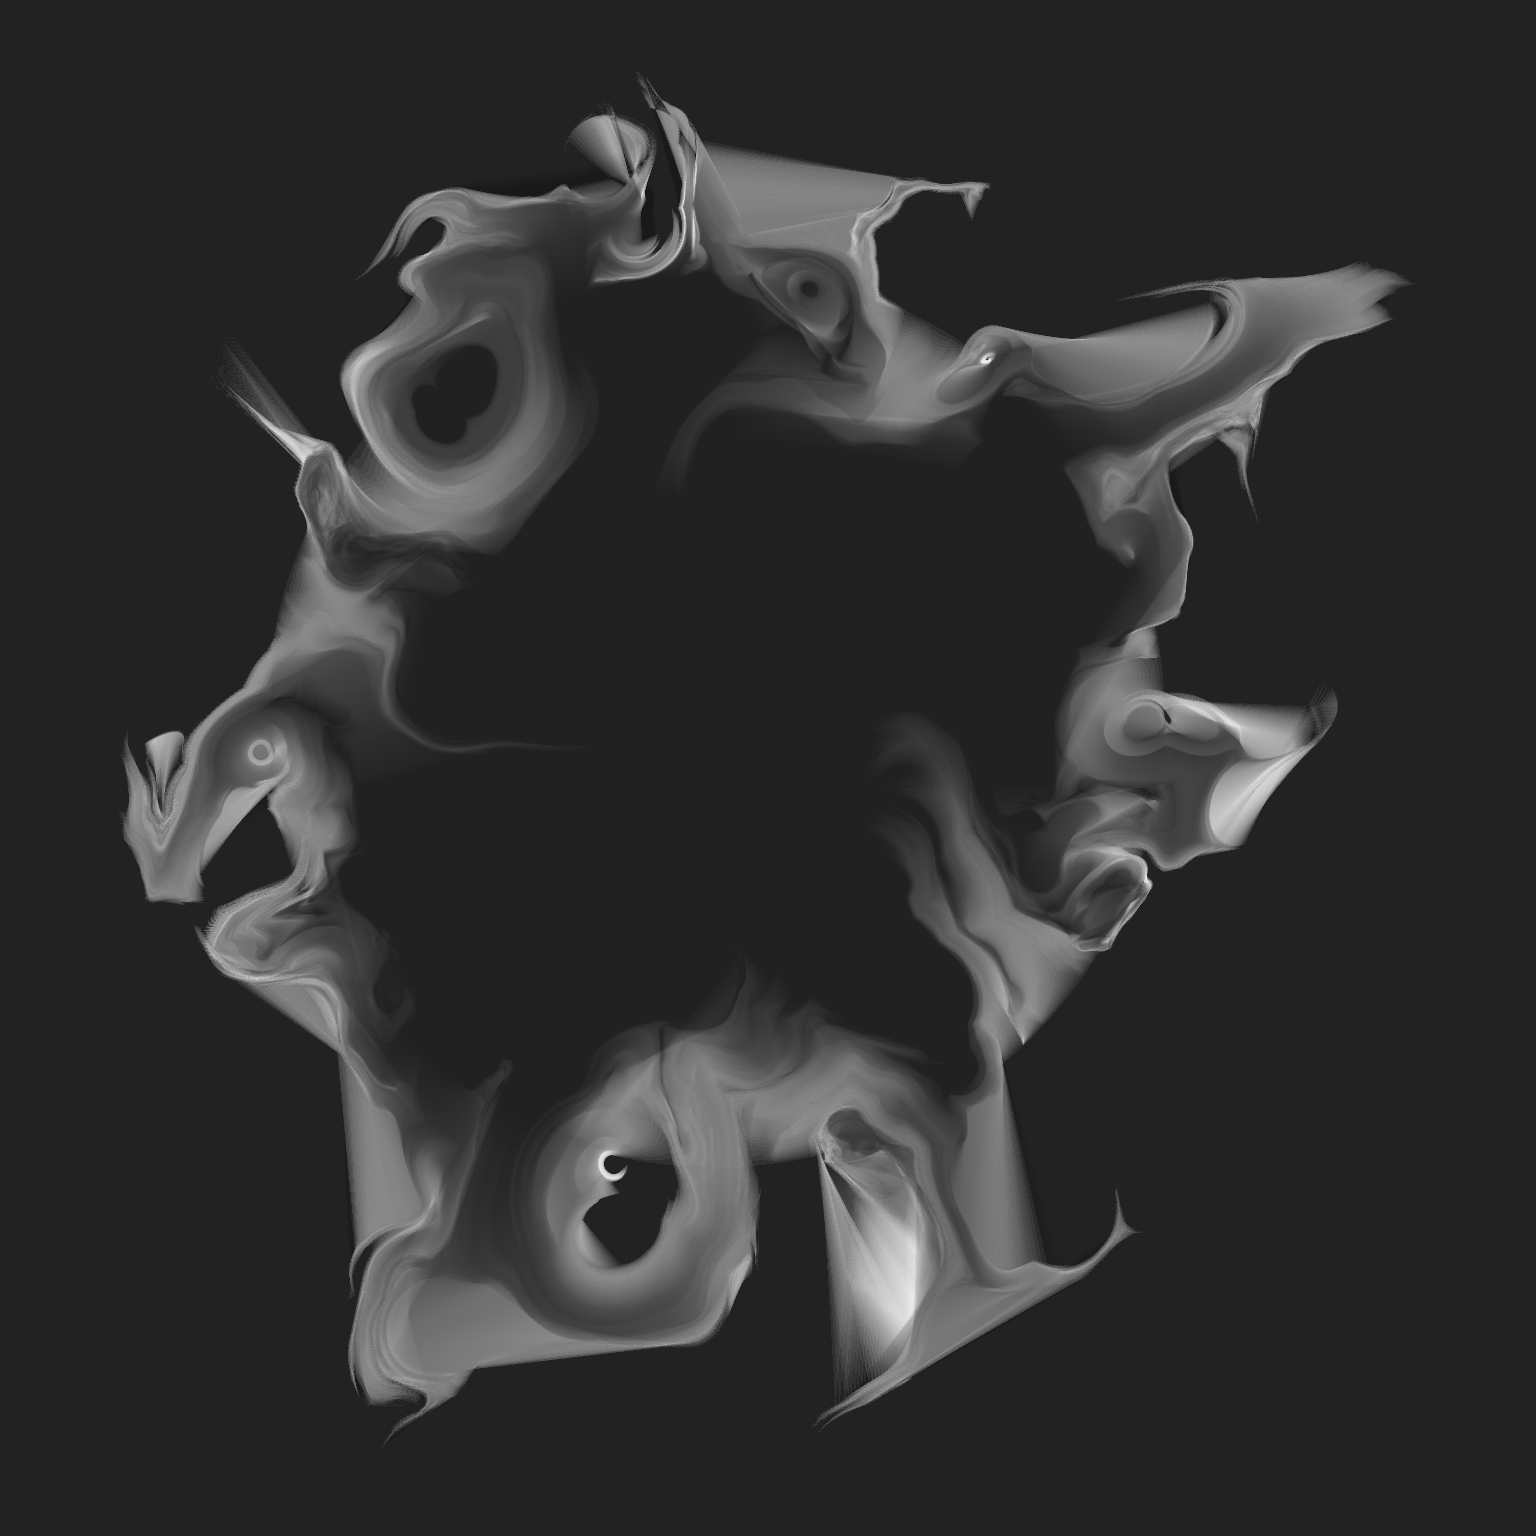
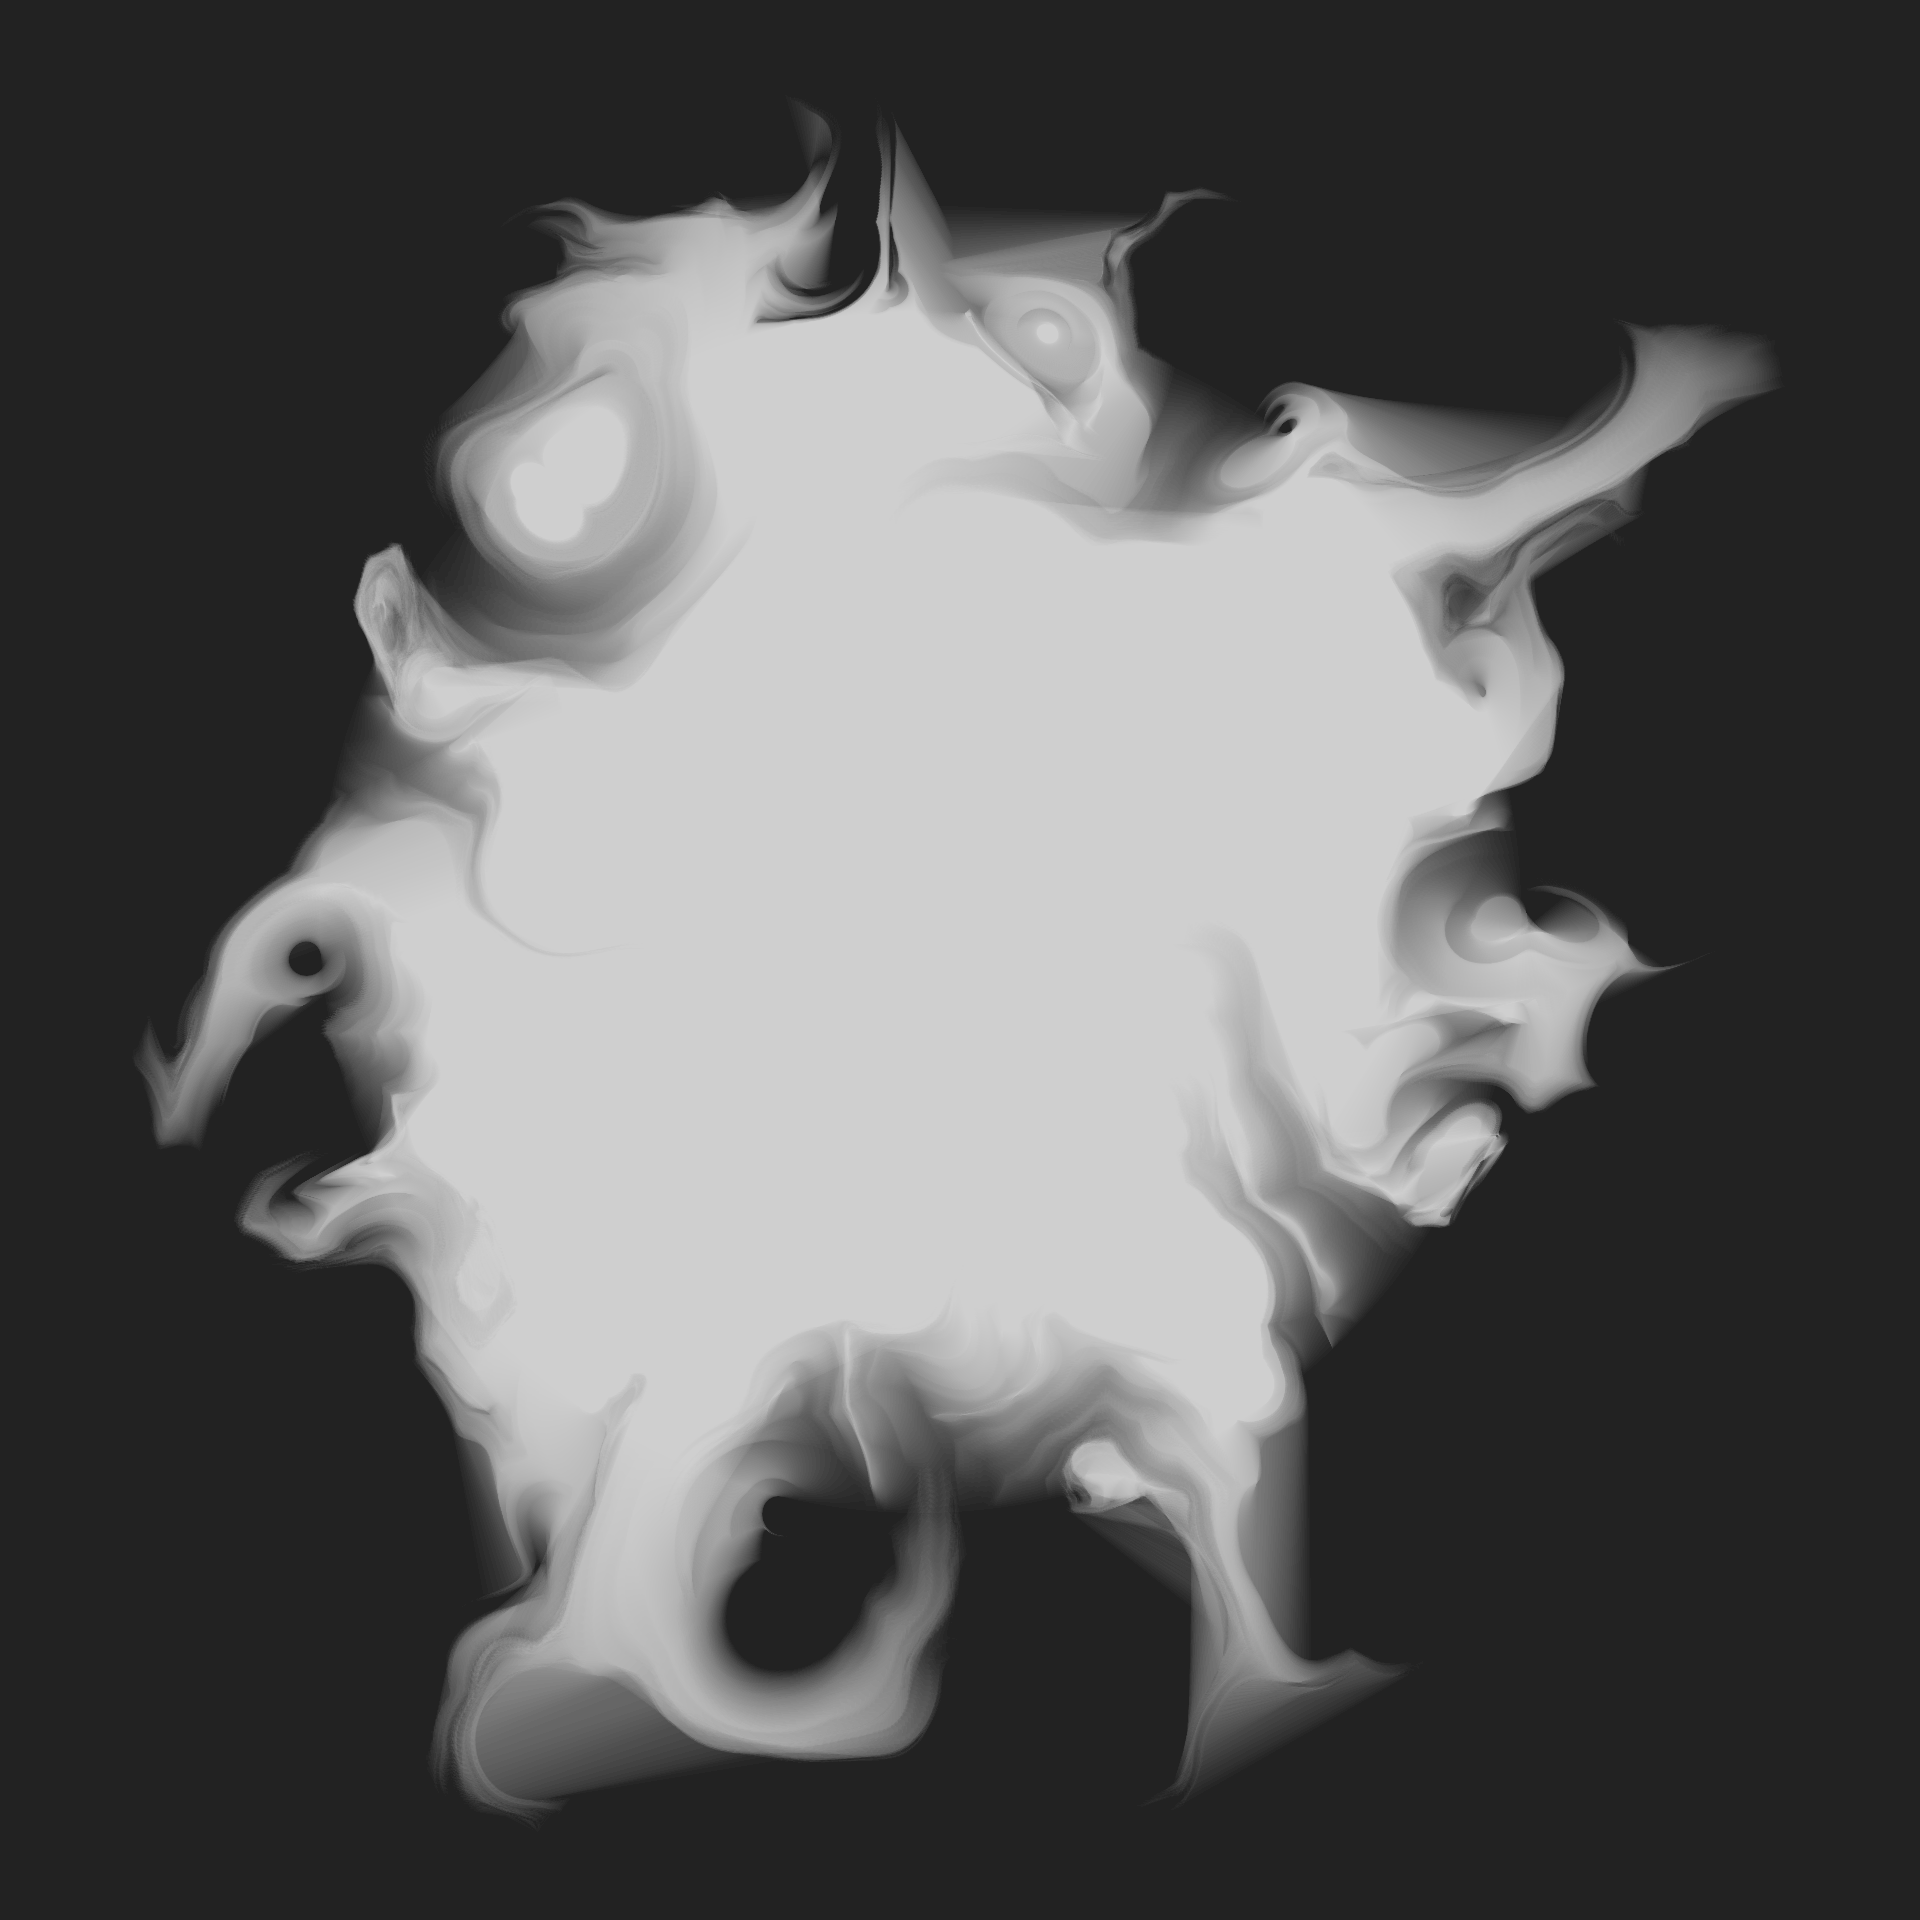
minor tweak

diff --git a/_site/day-1/session-2/index.html b/_site/day-1/session-2/index.html
@@ -1471,11 +1471,11 @@ Exercises
 </div>
 </div>
 <p>A related example using polygons, heavily influenced by Thomas Lin Pedersen’s “genesis” system:</p>
-<div class="cell" data-layout-align="center" data-fig.dpi="300" data-hash="index_cache/html/curl-art-examples-2_3baf242c81b88178deb4c9dfd691a63e">
+<div class="cell" data-layout-align="center" data-fig.dpi="300" data-hash="index_cache/html/curl-art-examples-2_34738add422586d59d35a190e6653388">
 <div class="sourceCode cell-code" id="cb65"><pre class="sourceCode r code-with-copy"><code class="sourceCode r"><span id="cb65-1"><a href="#cb65-1" aria-hidden="true" tabindex="-1"></a>custom_curl_data <span class="ot">&lt;-</span> <span class="cf">function</span>(data) {</span>
 <span id="cb65-2"><a href="#cb65-2" aria-hidden="true" tabindex="-1"></a>  <span class="fu">curl_data</span>(</span>
 <span id="cb65-3"><a href="#cb65-3" aria-hidden="true" tabindex="-1"></a>    <span class="at">data =</span> data,</span>
-<span id="cb65-4"><a href="#cb65-4" aria-hidden="true" tabindex="-1"></a>    <span class="at">iterations =</span> <span class="dv">100</span>, </span>
+<span id="cb65-4"><a href="#cb65-4" aria-hidden="true" tabindex="-1"></a>    <span class="at">iterations =</span> <span class="dv">80</span>, </span>
 <span id="cb65-5"><a href="#cb65-5" aria-hidden="true" tabindex="-1"></a>    <span class="at">octaves =</span> <span class="dv">10</span>,</span>
 <span id="cb65-6"><a href="#cb65-6" aria-hidden="true" tabindex="-1"></a>    <span class="at">fractal =</span> ridged,</span>
 <span id="cb65-7"><a href="#cb65-7" aria-hidden="true" tabindex="-1"></a>    <span class="at">noise =</span> gen_cubic,</span>
@@ -1495,14 +1495,14 @@ Exercises
 <span id="cb65-21"><a href="#cb65-21" aria-hidden="true" tabindex="-1"></a>  <span class="fu">custom_curl_data</span>()</span>
 <span id="cb65-22"><a href="#cb65-22" aria-hidden="true" tabindex="-1"></a></span>
 <span id="cb65-23"><a href="#cb65-23" aria-hidden="true" tabindex="-1"></a><span class="fu">ggplot</span>(<span class="at">mapping =</span> <span class="fu">aes</span>(x, y, <span class="at">group =</span> time)) <span class="sc">+</span></span>
-<span id="cb65-24"><a href="#cb65-24" aria-hidden="true" tabindex="-1"></a>  <span class="fu">geom_polygon</span>(<span class="at">data =</span> dat1, <span class="at">fill =</span> <span class="st">"#ffffff10"</span>) <span class="sc">+</span></span>
-<span id="cb65-25"><a href="#cb65-25" aria-hidden="true" tabindex="-1"></a>  <span class="fu">geom_polygon</span>(<span class="at">data =</span> dat2, <span class="at">fill =</span> <span class="st">"#22222205"</span>) <span class="sc">+</span></span>
-<span id="cb65-26"><a href="#cb65-26" aria-hidden="true" tabindex="-1"></a>  <span class="fu">theme_void</span>() <span class="sc">+</span></span>
+<span id="cb65-24"><a href="#cb65-24" aria-hidden="true" tabindex="-1"></a>  <span class="fu">geom_polygon</span>(<span class="at">data =</span> dat1, <span class="at">fill =</span> <span class="st">"#22222210"</span>) <span class="sc">+</span></span>
+<span id="cb65-25"><a href="#cb65-25" aria-hidden="true" tabindex="-1"></a>  <span class="fu">geom_polygon</span>(<span class="at">data =</span> dat2, <span class="at">fill =</span> <span class="st">"#ffffff05"</span>) <span class="sc">+</span></span>
+<span id="cb65-26"><a href="#cb65-26" aria-hidden="true" tabindex="-1"></a>  <span class="fu">theme_void</span>() <span class="sc">+</span> </span>
 <span id="cb65-27"><a href="#cb65-27" aria-hidden="true" tabindex="-1"></a>  <span class="fu">coord_equal</span>()</span></code><button title="Copy to Clipboard" class="code-copy-button"><i class="bi"></i></button></pre></div>
 <div class="cell-output-display">
 <div class="quarto-figure quarto-figure-center">
 <figure class="figure">
-<p><img src="index_files/figure-html/curl-art-examples-2-1.png" class="img-fluid figure-img" width="768"></p>
+<p><img src="index_files/figure-html/curl-art-examples-2-1.png" class="img-fluid figure-img" width="960"></p>
 </figure>
 </div>
 </div>
